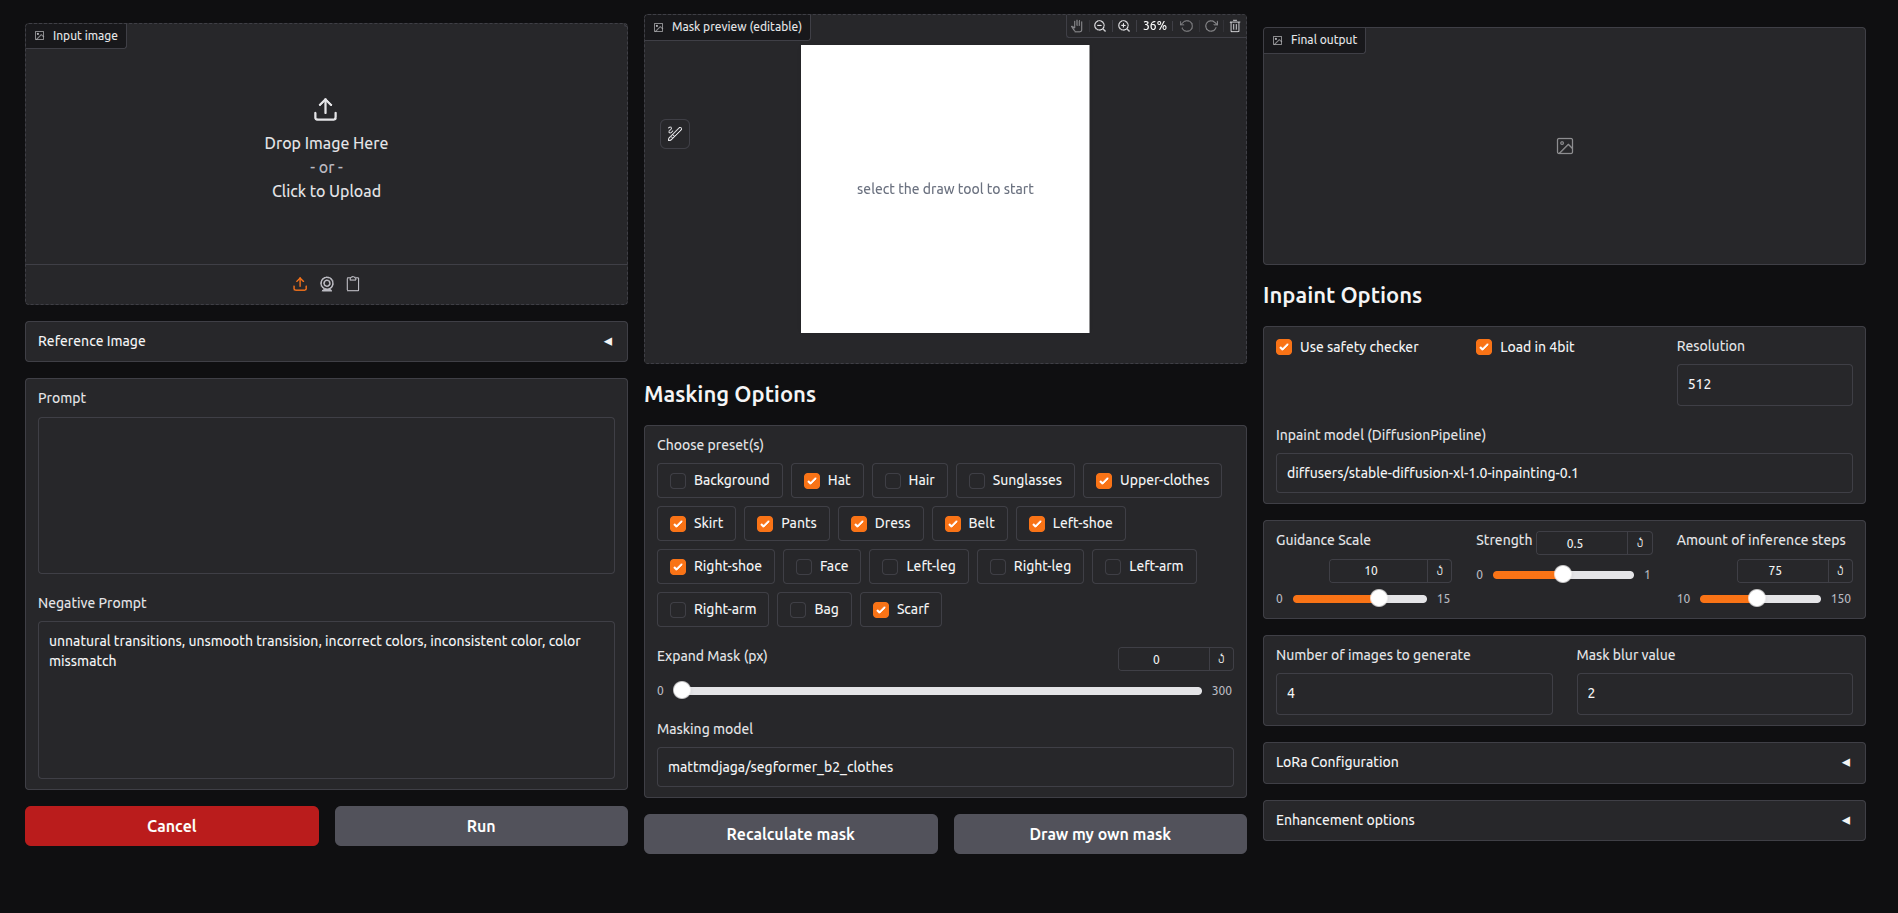
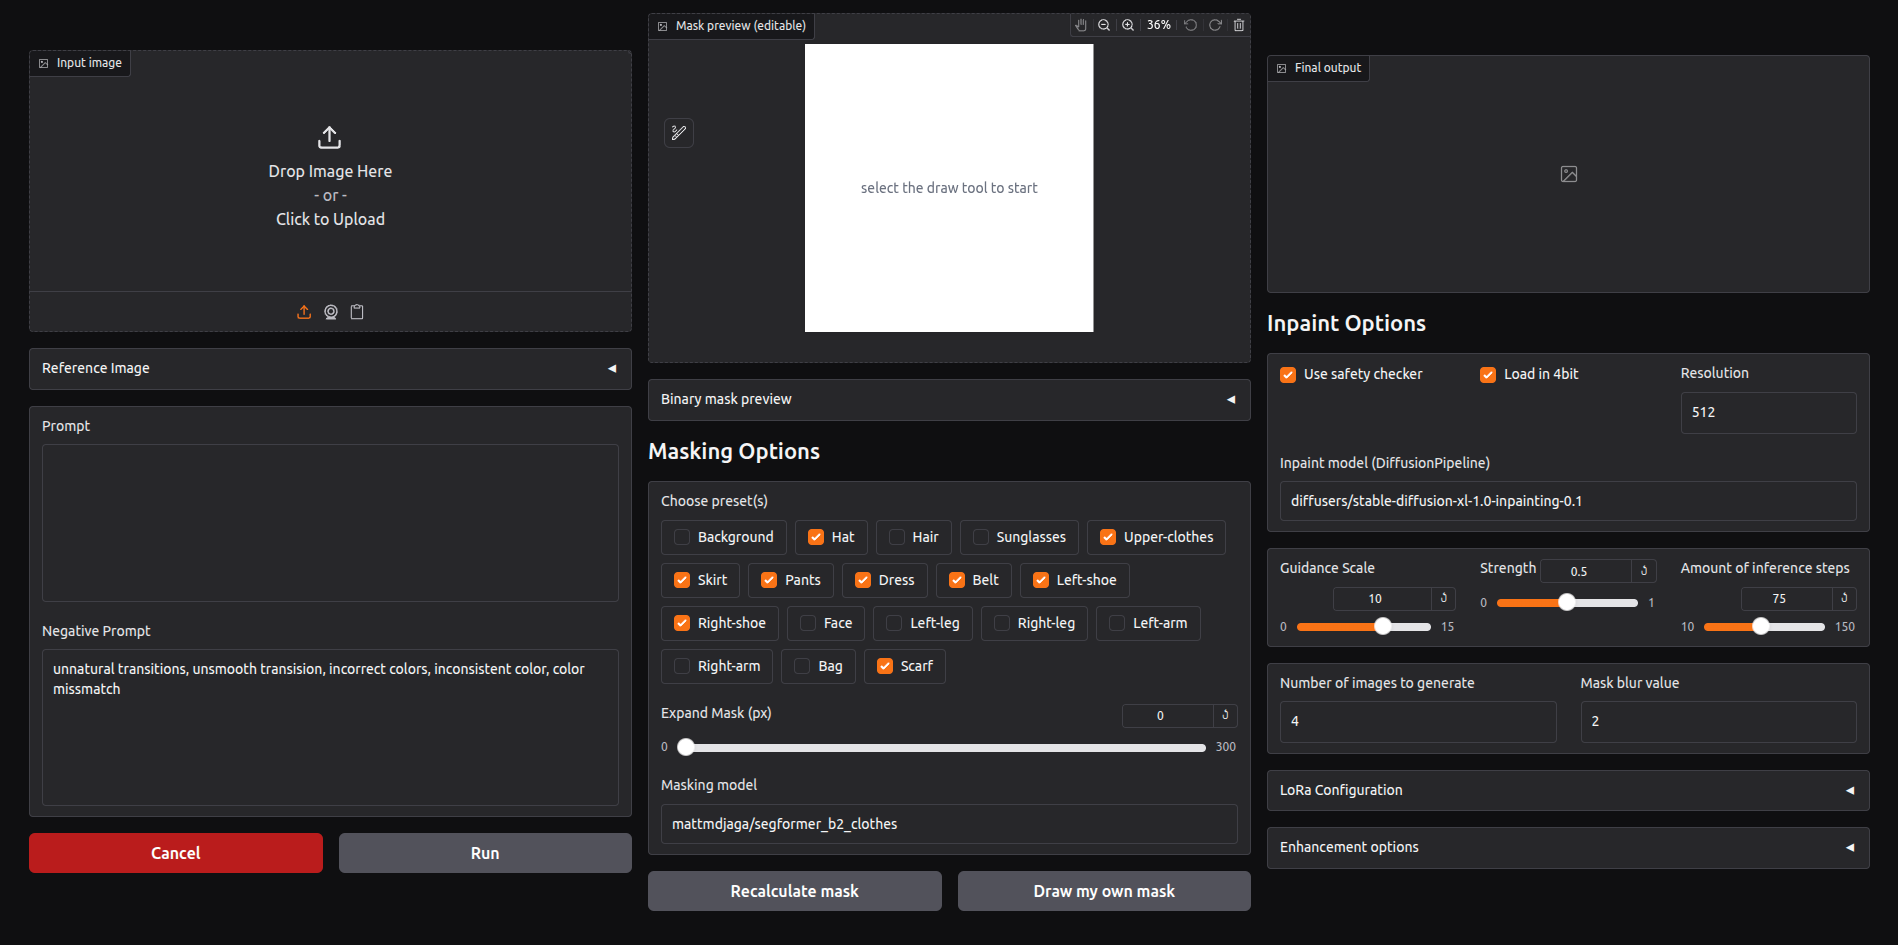
Added binary mask preview

diff --git a/src/app.py b/src/app.py
@@ -56,11 +56,11 @@ def generate_mask(image: Image.Image, masking_model: str, masks: list[str], mask
         "background": image,
         "layers": [ image ],
         "composite": compose_mask(image, mask)
-    }, state
+    }, mask, state
 
 def handle_mask_draw(mask_preview, state: dict):
     if "image" not in state.keys():
-        return state
+        return state.get("mask"), state
 
     image = state["image"]
     current_mask = state.get("mask", Image.new("L", image.size)).convert("L")
@@ -74,19 +74,18 @@ def handle_mask_draw(mask_preview, state: dict):
 
     combined_mask = ImageChops.lighter(current_mask_bin, new_mask_bin)
     state["mask"] = combined_mask
-    
-    return state
+    return combined_mask, state
 
 def clear_mask(state: dict):
     if "image" not in state.keys():
-        return gr.update(), state
+        return gr.update(), state.get("mask"), state
 
     image = state["image"]
     mask = Image.new("L", image.size).convert("L")
 
     state["mask"] = mask
 
-    return compose_mask(image, mask), state
+    return compose_mask(image, mask), mask, state
 
 def run(image: Image.Image, reference_image: Image.Image | None, prompt: str, negative_prompt: str,
         inpaint_model: str,
@@ -285,6 +284,9 @@ with gr.Blocks(css=css, js=js) as demo:
                 show_download_button=False
             )
 
+            with gr.Accordion("Binary mask preview", open=False):
+                binary_mask_preview = gr.Image(interactive=False, label="Binary mask")
+
             gr.Markdown("## Masking Options")
             masks = gr.CheckboxGroup(choices=list(SETTINGS["masks_all"]), label="Choose preset(s)", value=SETTINGS["masks"])
             mask_expansion = gr.Slider(0, 300, value=SETTINGS["mask_expansion"], step=1, label='Expand Mask (px)')
@@ -365,10 +367,10 @@ with gr.Blocks(css=css, js=js) as demo:
 
     magic_prompt.input(change_magic_prompt, inputs=[ magic_prompt ], outputs=[])
 
-    mask_preview.change(handle_mask_draw, inputs=[mask_preview, state], outputs=[state])
-    mask_clear_button.click(generate_mask, inputs=[input_image, masking_model, masks, mask_expansion, state], outputs=[mask_preview, state])
-    mask_draw_own.click(clear_mask, inputs=[state], outputs=[mask_preview, state])
-    input_image.upload(generate_mask, inputs=[input_image, masking_model, masks, mask_expansion, state], outputs=[mask_preview, state])
+    mask_preview.change(handle_mask_draw, inputs=[mask_preview, state], outputs=[binary_mask_preview, state])
+    mask_clear_button.click(generate_mask, inputs=[input_image, masking_model, masks, mask_expansion, state], outputs=[mask_preview, binary_mask_preview, state])
+    mask_draw_own.click(clear_mask, inputs=[state], outputs=[mask_preview, binary_mask_preview, state])
+    input_image.upload(generate_mask, inputs=[input_image, masking_model, masks, mask_expansion, state], outputs=[mask_preview, binary_mask_preview, state])
 
     run_event = run_btn.click(
         fn=run,
